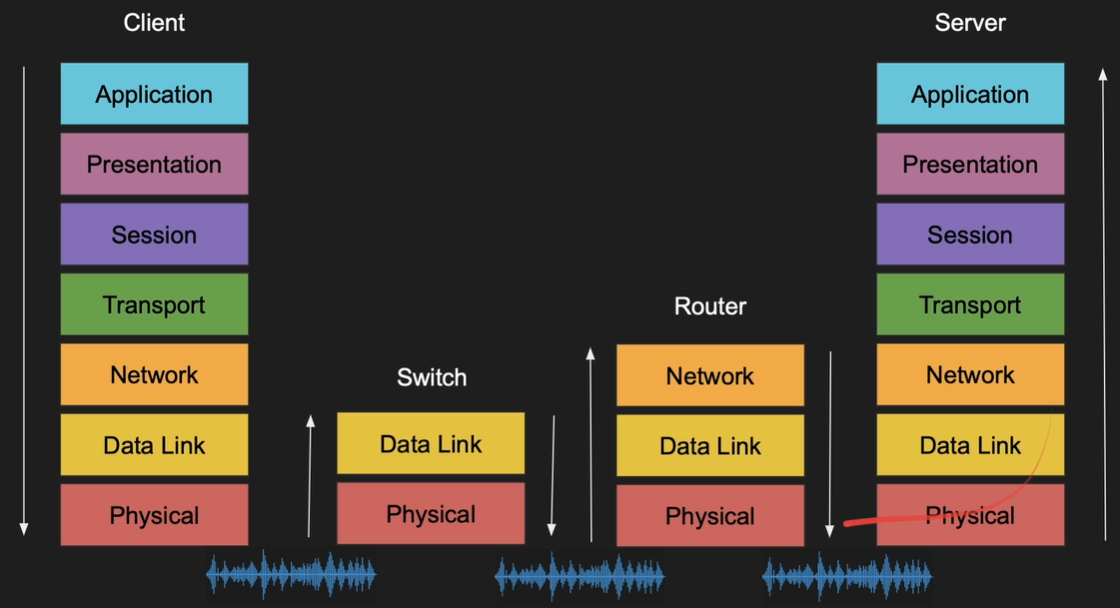
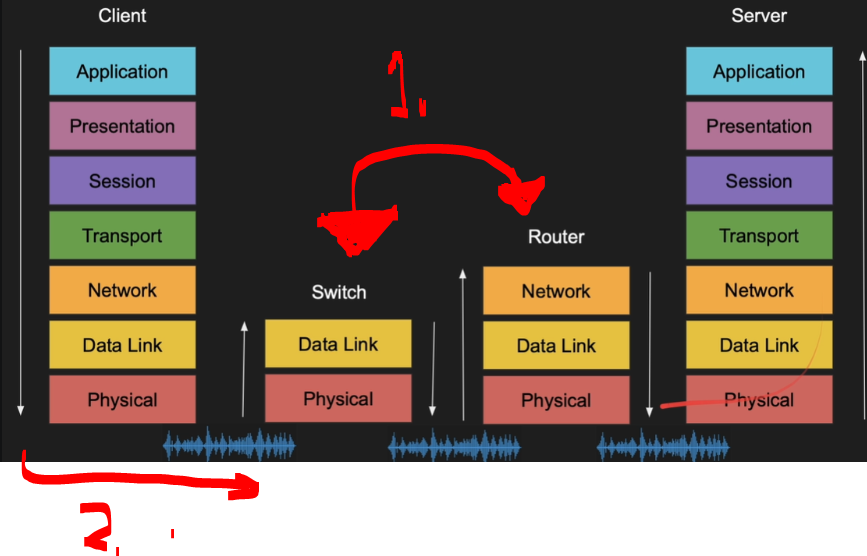
Proceeded

diff --git a/Fundamentals of Backend Engineering/Section 03/README.md b/Fundamentals of Backend Engineering/Section 03/README.md
@@ -247,9 +247,129 @@ Protocols.
 3. This is **IP package** will be packed into the **Frame**.
 4. This will be same flow, but other way around!
 
+<div align="center">
+    <img width="600px" alt="Backend course!" src="Client_And_Server_Flow_When_There_Is_Intermediate_Devices_Between.PNG">
+</div>
+
+1. `Switch` and `Router` are also peeking into the packages, but in different levels!
+    - This processing between the **server** and the **client** takes time! Processing takes also some time!
+        - **Switch** it needs to open the **MAC address** to make the routing decision!
+            - This is **level two** device! It needs to go to `Physical` and `Data Link` level!
+        - **Router** it needs to open the **MAC address** to make the routing decision!
+            - The **Router** needs to go to `Netork` level, to look at the IP-adress!
+            - This is **level three** device! It needs to go to `Physical` and `Data Link` and `Netowrk` level!
+2. The package goes from left to right!
+
+> [!NOTE]  
+> **Transparent** in general, is a device or service performs a function without requiring the communicating endpoints to be aware of it.
+
+- Let's explore the **Firewall** and the **Load Balancer**! These are transparent proxy and firewall!
+
+<div align="center">
+    <img width="600px" alt="Backend course!" src="Client_And_Server_Flow_When_There_Is_Intermediate_Devices_Between_Second.PNG">
+</div>
+
+1. Here is the **Firewall**!
+    - Role of the firewall → Blocks certain packets from coming to your networks. IT needs to go check the **ports** and **ip-adress**!
+        - Some **firewall's** goes into **application** level!
+2. Here is the **Load Balancer**!
+    - **Layer 7 load balancer** are way slower than **firewall**!
+        - Load balancer needs to get into **Application** level and **decrypt** and **cache it**.
+3. **Transport** layer can be used for the forwarding based on port!
+4. **VPN Tunnel** is **Layer 3** (sometimes **Layer 2**) IP packets!
+    - Once the **ip-packet** comes to the **VPN server**, it is encapsulated at the VPN server!
+5. One **session** here!  
+    - From client perspective this is **end** destination!
+6. One **session** here!
+
+<div align="center">
+    <img width="600px" alt="Backend course!" src="Shortcomings_Of_The_OSI_Model.PNG">
+</div>
+
+1. **Too complex**, too many layers! One needs practical understanding to have understanding!  Which layer should decrypt??? People still arguing about this!
+2. OSI model is just model to talk about!
+3. This is simpler to deal with, **layers 5-6-7** in one layer. **TCP/IP** model tries to do just this! 
+
+<div align="center">
+    <img width="600px" alt="Backend course!" src="TCP_IP_Model.PNG">
+</div>
+
+1. This is the hierarchy for OSI layers!
+    - In this layer, avoid numbering! This is the **layer 5**!
+
+- Order came:
+    - So **TCP/IP** existed because the internet needed something that worked in practice. This is in **1970s** for ARPANET!
+    - So **OSI** was created later (to explain networking clearly)! This was done in **1980s**!
+
+<div align="center">
+    <img width="600px" alt="Backend course!" src="Linkerd.PNG">
+</div>
+
+1. Example of the **Layer 5**, discussion!
+
+<div align="center">
+    <img width="600px" alt="Backend course!" src="OSI_Mode_Vs_TCP_IP_Address.png">
+</div>
+
 # Internet Protocol.
 
+<div align="center">
+    <img width="600px" alt="Backend course!" src="IP_Building_Block.PNG">
+</div>
+
+1. What operations the **IP** will be using!
+
+<div align="center">
+    <img width="600px" alt="Backend course!" src="IP_Address.PNG">
+</div>
+
+1. **IP address** is **layer 3** property!
+
+<div align="center">
+    <img width="600px" alt="Backend course!" src="Network_Vs_Host.PNG">
+</div>
+
+1. **/24** means:
+    - 24 bits = network part!
+    - 8 bits = host part!
+2. This is **responsibility** of the **network engineer**! **Backend engineer** are thinking how **packets flows**!
+
+<div align="center">
+    <img width="600px" alt="Backend course!" src="Subnet_Mask.PNG">
+</div>
+
+1. **Subnet mask** can be used to figure out if the **receiver** is in the **same network**!
+    - If it is, then we can use **MAC address** to send it to receiver!
+    - If it is not, we need to send IP-packet to other network!
+
+<div align="center">
+    <img width="600px" alt="Backend course!" src="Default_Gateway.PNG">
+</div>
+
+1. Most of the networks have **default gateway**! 
+2. Gateway can be used for to talk with other networks!
+
+<div align="center">
+    <img width="600px" alt="Backend course!" src="Example_Of_Gateway.PNG">
+</div>
+
+- todo finish this
+
 # UDP.
+
+- TCP is good for reliability!
+- UDP is simplicity!
+    - This can be handled in the **TCP** level!
+
+<div align="center">
+    <img width="600px" alt="Backend course!" src="UDP_Intro.PNG">
+</div>
+
+1. **U**ser **D**atagram **P**rotocol!
+
+<div align="center">
+    <img width="600px" alt="Backend course!" src="UDP_One.PNG">
+</div>
 
 # TCP.
 
@@ -302,7 +422,6 @@ Protocols.
 - Todo jatka tästä.
 
 # TLS.
-
 
 
 # HTTP/1.1.

diff --git a/README.md b/README.md
@@ -352,18 +352,66 @@ Linkedin puts this shit front, when clicking from private mode x(. Need to put t
     - [Link 03](https://www.youtube.com/watch?v=DsFsd--vhas).
 
 
+
 # The Complete Microservices & Event-Driven Architecture.
+<!-- 
+<p align="center">
+    <img
+     src="Fundamentals_Of_Backend_Engineering_Caption.png"
+    alt="Fundamentals Of Backend Engineering Caption"
+    style="width:1600px;height:110px;"/>
+</p> -->
 
-Section 01: Introduction.
-Section 02: Migration to Microservices Architecture.
-Section 03: Microservices - Principles and Best Practices.
-Section 04: Event-Driven Architecture.
-Section 05: Event-Driven Microservices - Design Patterns.
-Section 06: Testing Microservices and Event-Driven Architecture.
-Section 07: Observability in Microservices Architecture.
-Section 08: Deployment of Microservices and Event-Driven Architecture in Production.
-Section 09: Bonus Section.
+<p align="center">
+    <img src="The_Complete_Microservices_And_Event-Driven_Architecture_Description.PNG"
+    alt="The complete microservices and event-driven architecture description!"
+    style="width:690px" />
+</p>
 
+All course material from *The Complete Microservices & Event-Driven Architecture* by **Michael Pogrebinsky** ©.
+
+> 🐟 <br><br>
+> ~ *DevelopersCradle*
+
+<!-- 
+Contains my own with my own visual notes ✍️ with some course material to enforce learning experience. This course is for **intermediation level**, one can be **expected to have built some projects**! This is for the backend engineers, also this can be for network engineer!
+
+This repository is made with [![IntelliJ IDEA](https://img.shields.io/badge/IntelliJIDEA-000000.svg?logo=intellij-idea&logoColor=white)](#) with [![Eclipse](https://img.shields.io/badge/Eclipse-FE7A16.svg?logo=Eclipse&logoColor=white)](#) hotkeys, therefore it will include configuration files which are related to this IDE this approach will be favored for now. ⚙️
+
+[The course at Udemy](https://www.udemy.com/course/fundamentals-of-backend-communications-and-protocols).
+
+[Courses of the maker](https://courses.husseinnasser.com/).
+
+If the content sparked :fire: your interest, please consider buying the course and start learning :book:.
+
+<!-- 
+Linkedin puts this shit front, when clicking from private mode x(. Need to put this to make jump working every case
+?trk=public_profile_see-credential 
+-->
+
+<div align="center">
+    Insert certificate here when completed
+</div>
+
+<br>
+
+**Note: The material provided in this repository is only for helping those who may get stuck at any point of time in the course. It is very advised that no one should just copy the solutions(violation of Honor Code) presented here.**
+
+#### Progress/Curriculum.
+
+- [x] [Section 01](#) - Introduction.
+- [ ] [Section 02](#) - Migration to Microservices Architecture.
+- [ ] [Section 03](#) - Microservices - Principles and Best Practices.
+- [ ] [Section 04](#) - Event-Driven Architecture.
+- [ ] [Section 05](#) - Event-Driven Microservices - Design Patterns.
+- [ ] [Section 06](#) - Testing Microservices and Event-Driven Architecture.
+- [ ] [Section 07](#) - Observability in Microservices Architecture.
+- [ ] [Section 08](#) - Deployment of Microservices and Event-Driven Architecture in Production.
+- [ ] [Section 09](#) - Bonus Section.
+
+#### Additional stuff.
+
+- [ ]  todo.
 
 <p align="center">
     <img
@@ -407,7 +455,7 @@ All course material from *Fundamentals of Backend Engineering* by **Hussein Nass
 > Just engineering. 🐟 <br><br>
 > ~ *DevelopersCradle*
 
-Contains my own with my own visual notes ✍️ with some course material to enforce learning experience. This course is for **intermediation level**, one can be **expected to have built some projects**!
+Contains my own with my own visual notes ✍️ with some course material to enforce learning experience. This course is for **intermediation level**, one can be **expected to have built some projects**! This is for the backend engineers, also this can be for network engineer!
 
 This repository is made with [![IntelliJ IDEA](https://img.shields.io/badge/IntelliJIDEA-000000.svg?logo=intellij-idea&logoColor=white)](#) with [![Eclipse](https://img.shields.io/badge/Eclipse-FE7A16.svg?logo=Eclipse&logoColor=white)](#) hotkeys, therefore it will include configuration files which are related to this IDE this approach will be favored for now. ⚙️
 